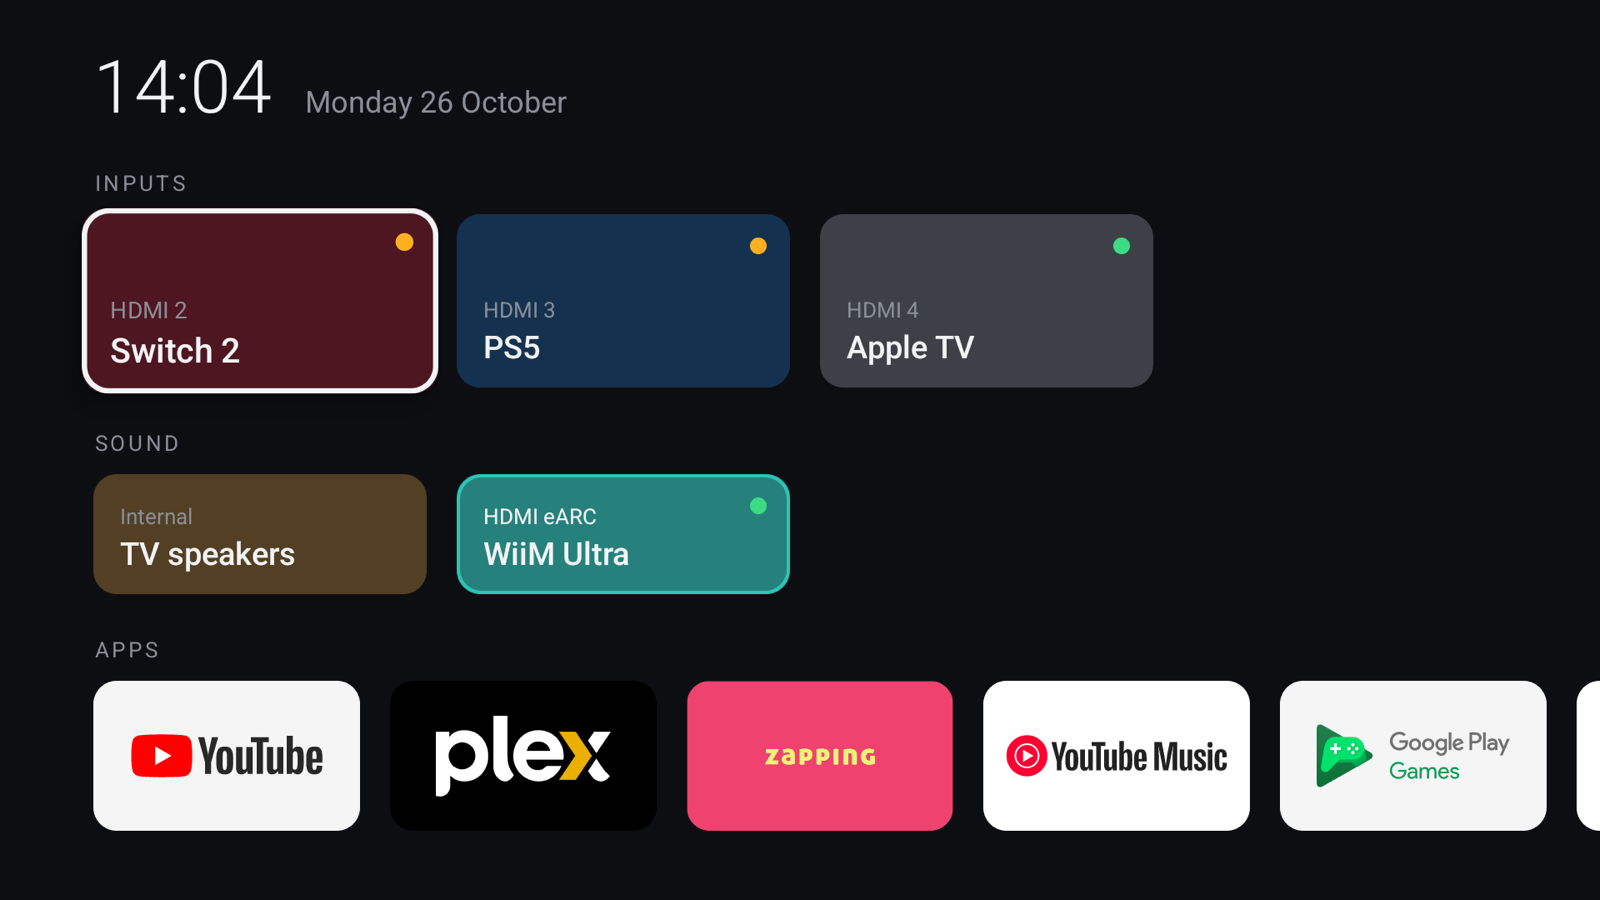
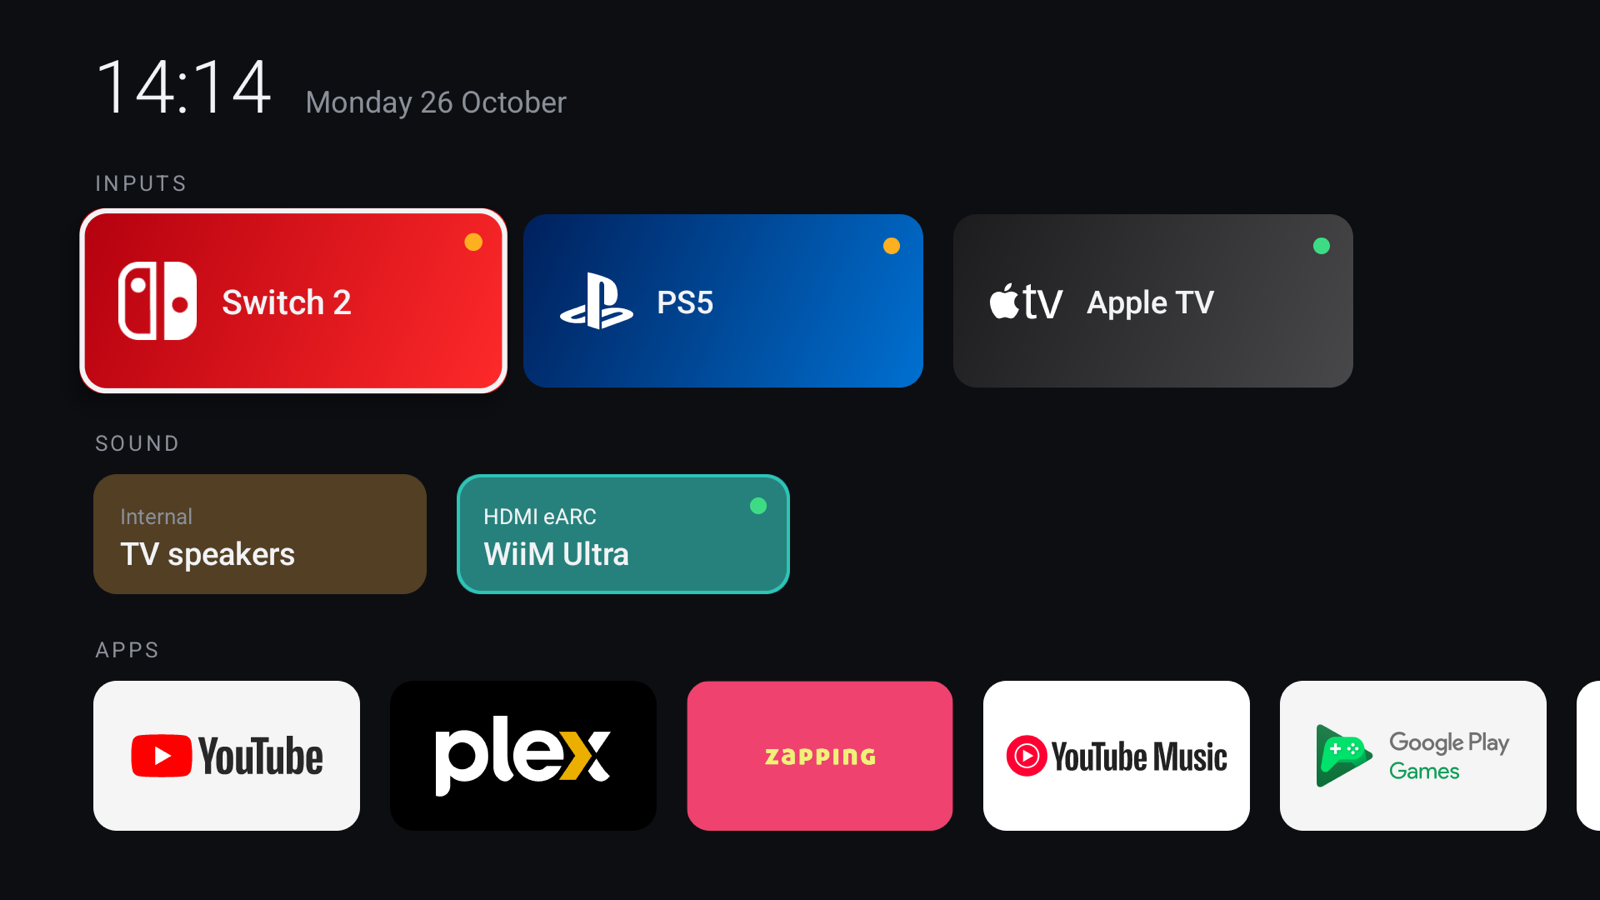
feat: show brand marks on the input tiles

Changed region(s): [[0.0312, 0.2178, 0.8438, 0.4356], [0.125, 0.0622, 0.1562, 0.1244]]

diff --git a/app/src/main/java/com/leo/tvlobby/Tile.kt b/app/src/main/java/com/leo/tvlobby/Tile.kt
@@ -43,7 +43,11 @@ class Tile(context: Context, widthDp: Int, heightDp: Int, private val accent: In
         maxLines = 1
     }
 
-    private val fill = GradientDrawable().apply { cornerRadius = context.dp(14).toFloat() }
+    private val fill = GradientDrawable().apply {
+        cornerRadius = context.dp(14).toFloat()
+        orientation = GradientDrawable.Orientation.TL_BR
+    }
+    private var gradient: IntArray? = null
     private val ring = GradientDrawable().apply { cornerRadius = context.dp(14).toFloat() }
     private val dotFill = GradientDrawable().apply { shape = GradientDrawable.OVAL }
     private val dot = View(context).apply {
@@ -96,6 +100,17 @@ class Tile(context: Context, widthDp: Int, heightDp: Int, private val accent: In
         }, 0, LayoutParams(LayoutParams.MATCH_PARENT, LayoutParams.MATCH_PARENT))
     }
 
+    fun showMark(mark: Drawable, colors: IntArray) {
+        gradient = colors
+        detail.visibility = GONE
+        text.gravity = Gravity.CENTER_VERTICAL
+        text.setPadding(context.dp(80), 0, context.dp(16), 0)
+        addView(ImageView(context).apply { setImageDrawable(mark) }, LayoutParams(context.dp(44), context.dp(44), Gravity.CENTER_VERTICAL or Gravity.START).apply {
+            marginStart = context.dp(22)
+        })
+        render()
+    }
+
     fun showIcon(icon: Drawable, label: CharSequence) {
         title.text = label
         title.textSize = 15f
@@ -106,7 +121,8 @@ class Tile(context: Context, widthDp: Int, heightDp: Int, private val accent: In
     }
 
     private fun render() {
-        fill.setColor(blend(Palette.SURFACE, accent, if (active) 0.6f else 0.25f))
+        val colors = gradient
+        if (colors != null) fill.colors = colors else fill.setColor(blend(Palette.SURFACE, accent, if (active) 0.6f else 0.25f))
         when {
             isFocused -> ring.setStroke(context.dp(3), Palette.TEXT)
             active -> ring.setStroke(context.dp(2), accent)

diff --git a/app/src/main/java/com/leo/tvlobby/Lobby.kt b/app/src/main/java/com/leo/tvlobby/Lobby.kt
@@ -1,15 +1,15 @@
 package com.leo.tvlobby
 
-data class Input(val label: String, val port: String, val inputId: String, val accent: Int)
+data class Input(val label: String, val inputId: String, val mark: Int, val colors: IntArray)
 
 data class AudioOutput(val label: String, val detail: String, val tclType: Int, val accent: Int)
 
 object Lobby {
     // TvInputService ids of this TCL's HDMI ports (`adb shell dumpsys tv_input`): HW15 is HDMI 1, HW18 is HDMI 4.
     val inputs = listOf(
-        Input("Switch 2", "HDMI 2", "com.tcl.tvinput/.TvPassThroughService/HW16", 0xFFE60012.toInt()),
-        Input("PS5", "HDMI 3", "com.tcl.tvinput/.TvPassThroughService/HW17", 0xFF0070D1.toInt()),
-        Input("Apple TV", "HDMI 4", "com.tcl.tvinput/.TvPassThroughService/HW18", 0xFFA2AAAD.toInt()),
+        Input("Switch 2", "com.tcl.tvinput/.TvPassThroughService/HW16", R.drawable.mark_switch, intArrayOf(0xFFB3000E.toInt(), 0xFFFF2A2A.toInt())),
+        Input("PS5", "com.tcl.tvinput/.TvPassThroughService/HW17", R.drawable.mark_playstation, intArrayOf(0xFF00205C.toInt(), 0xFF0070D1.toInt())),
+        Input("Apple TV", "com.tcl.tvinput/.TvPassThroughService/HW18", R.drawable.mark_appletv, intArrayOf(0xFF1C1C1E.toInt(), 0xFF48484A.toInt())),
     )
 
     // TCL's own sound-output switch: TvSettings writes EnSound.SoundOutput codes to this Global setting

diff --git a/app/src/main/java/com/leo/tvlobby/MainActivity.kt b/app/src/main/java/com/leo/tvlobby/MainActivity.kt
@@ -129,9 +129,9 @@ class MainActivity : Activity() {
         clipToPadding = false
     }
 
-    private fun inputTile(input: Input) = Tile(this, 200, 104, input.accent).apply {
+    private fun inputTile(input: Input) = Tile(this, 240, 104, input.colors.last()).apply {
         title.text = input.label
-        detail.text = input.port
+        showMark(getDrawable(input.mark)!!, input.colors)
         setOnClickListener {
             val channel = TvContract.buildChannelUriForPassthroughInput(input.inputId)
             launch(Intent(Intent.ACTION_VIEW).setDataAndType(channel, TvContract.Channels.CONTENT_ITEM_TYPE))

diff --git a/README.md b/README.md
@@ -26,9 +26,11 @@ The script does more than install the APK:
 
 Edit [`Lobby.kt`](app/src/main/java/com/leo/tvlobby/Lobby.kt):
 
-- `inputs`: tile label, port and `TvInputService` id. To list the ids, run `adb shell dumpsys tv_input`. `HW15`–`HW18` are HDMI 1–4.
+- `inputs`: tile label, `TvInputService` id, brand mark and gradient colors. To list the ids, run `adb shell dumpsys tv_input`. `HW15`–`HW18` are HDMI 1–4.
 - `outputs`: TCL's sound-output codes, which are written to the Global setting `tcl_device_out_type`. 2 is the speakers, 16 is ARC/eARC.
 - `favoriteApps` / `hiddenApps`: package names.
+
+The brand marks in `res/drawable/mark_*.xml` come from [Simple Icons](https://simpleicons.org) (CC0). The trademarks belong to their owners.
 
 ## How it works
 
